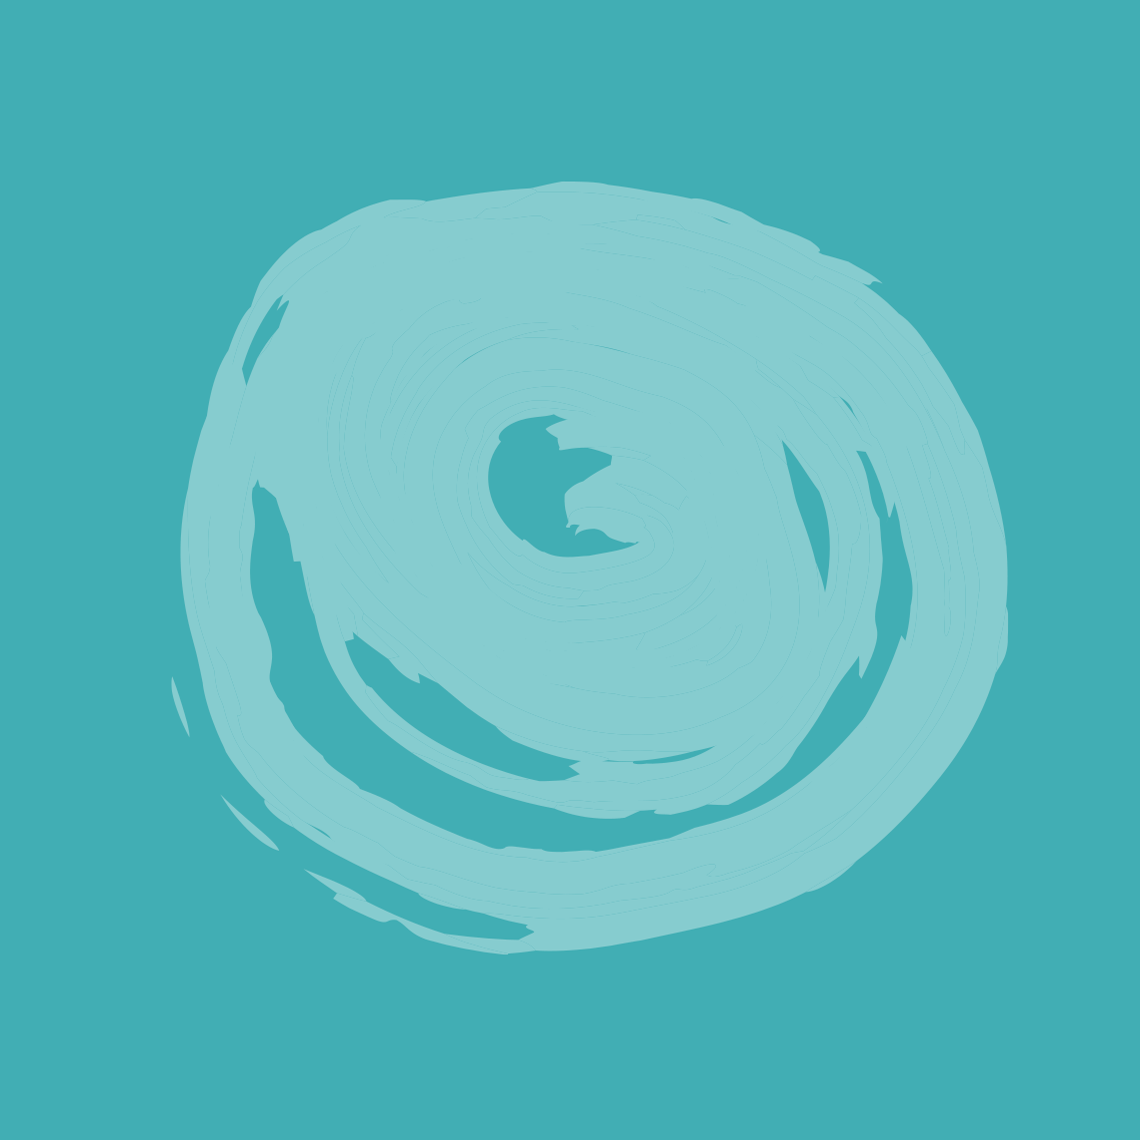
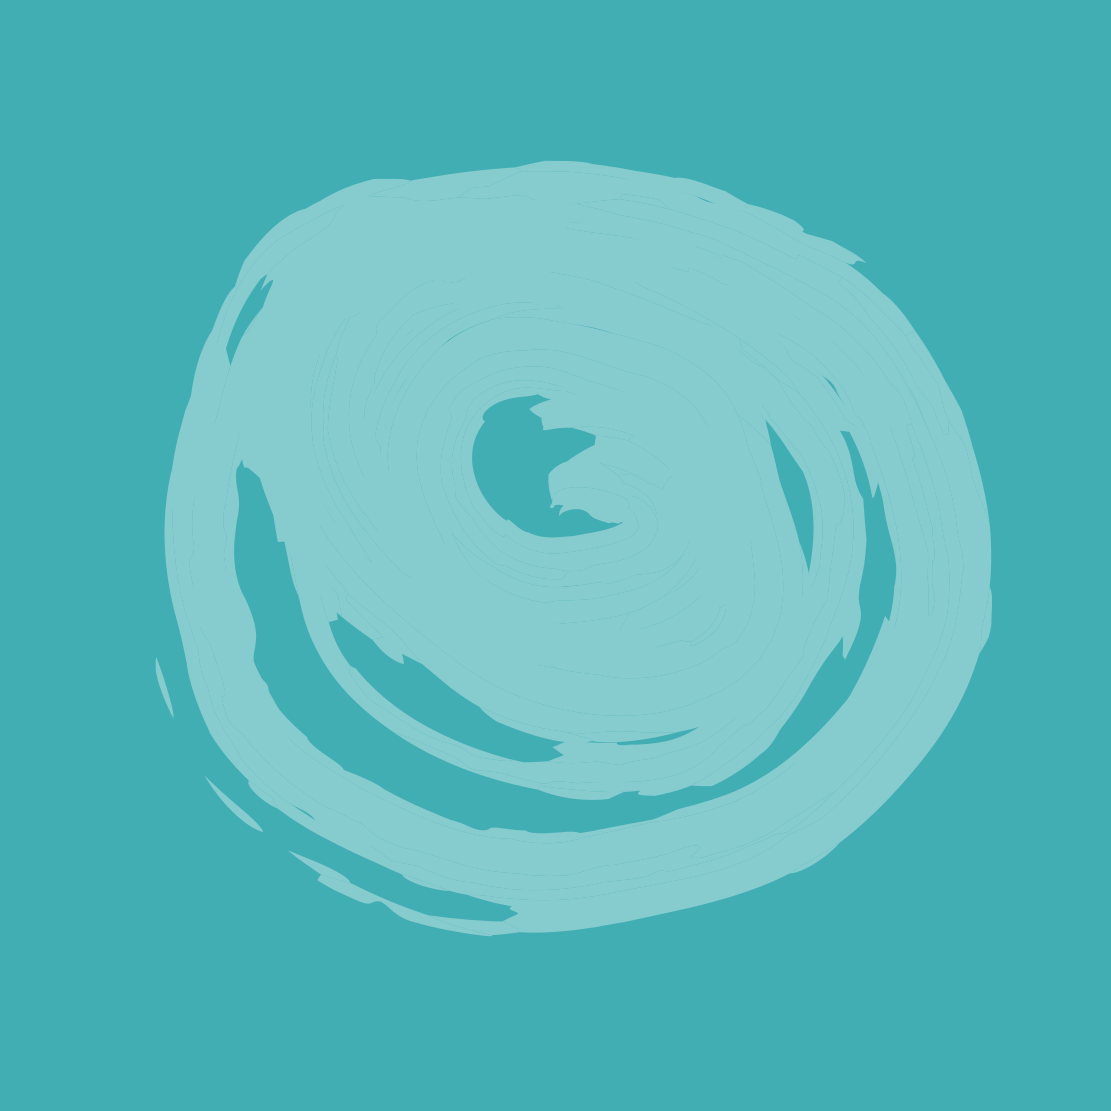
gg

diff --git a/sketch.js b/sketch.js
@@ -4,7 +4,7 @@ var img;
 function setup()
 {
 
-    createCanvas(1000,1000);
+    createCanvas(1111,1111);
     bg = loadImage("bg.png");
     bg = loadImage("bg.png");
     img = loadImage("earth.png");
